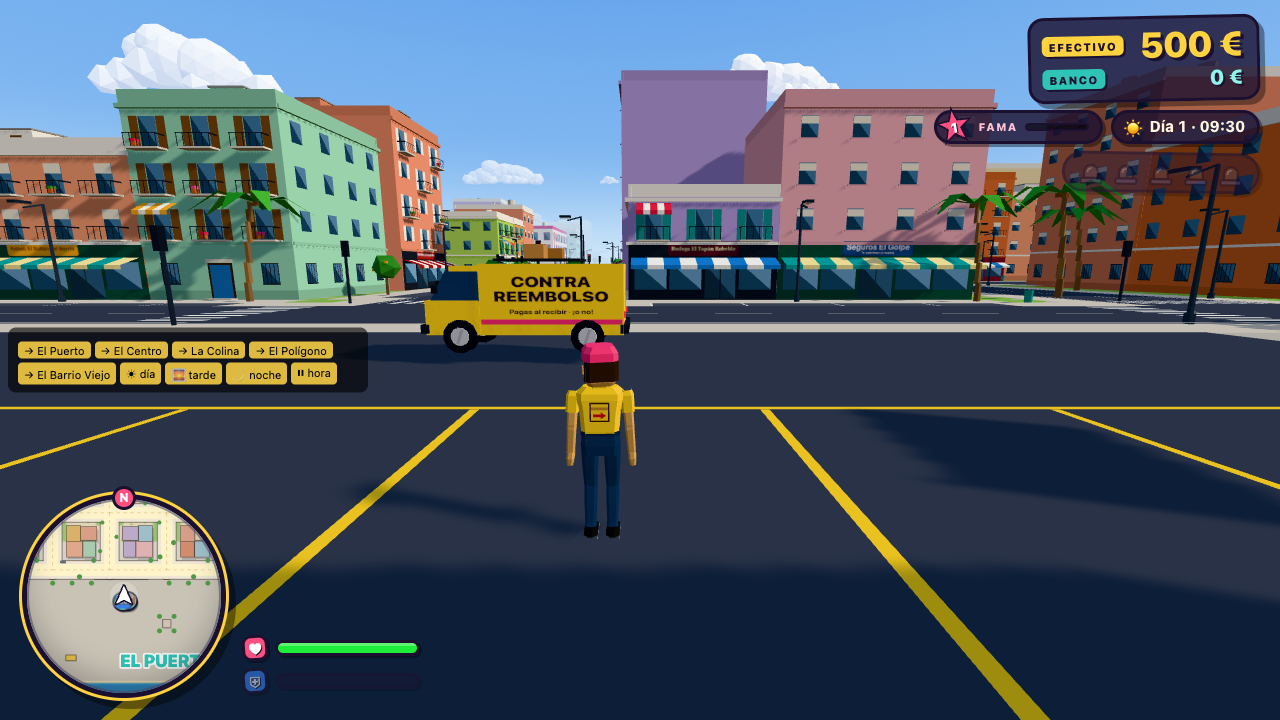
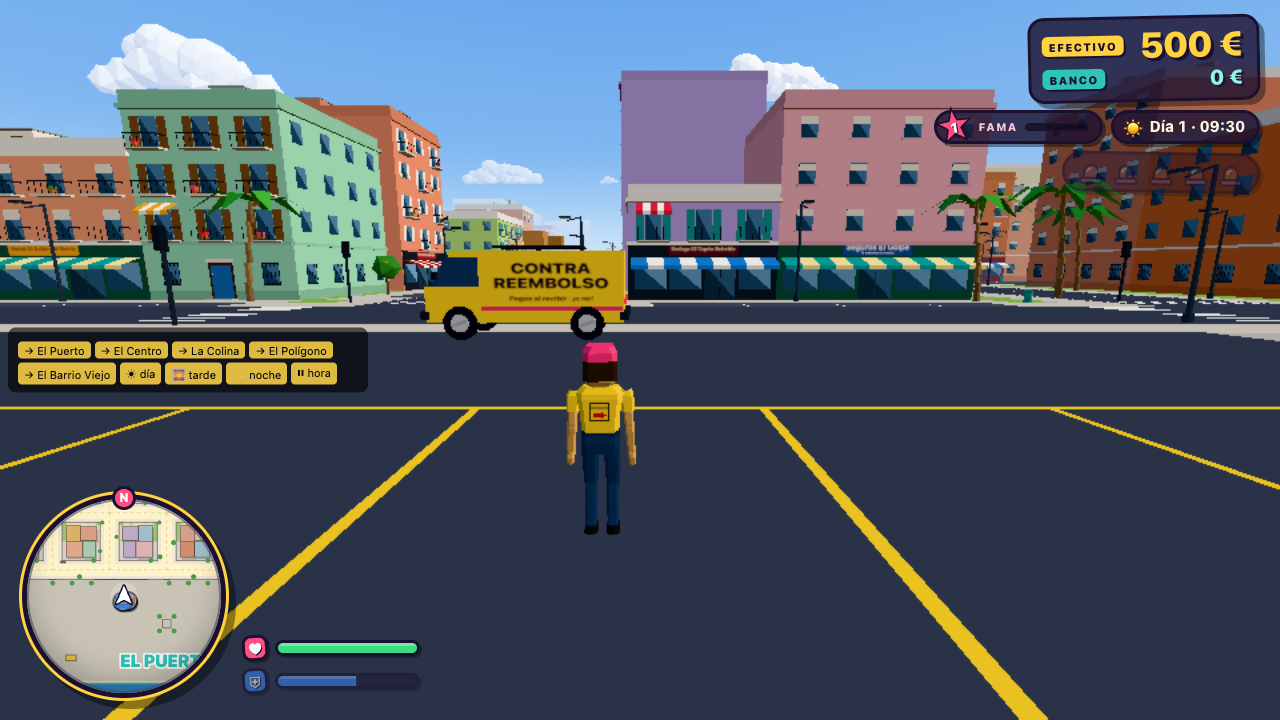
Fase 3 publicada: armas (normales, lanzapaquetes y cinta), Los Devueltos, policía con sirenas, muerte y reaparición

diff --git a/src/gameplay/weaponSpawns.ts b/src/gameplay/weaponSpawns.ts
@@ -1,0 +1,142 @@
+// Armas, botiquines y chalecos tirados por la isla (estilo videojuego de acción). Reaparecen al rato.
+import * as THREE from 'three';
+import type { Game, System } from '../core/game';
+import type { DistrictId } from '../core/contracts';
+import type { WeaponId } from '../combat/weapons';
+import { WEAPONS } from '../combat/weapons';
+import { makeGunMesh } from '../combat/gunModels';
+
+interface Spot {
+  pos: THREE.Vector3;
+  weapon?: WeaponId;
+  kind: 'weapon' | 'health' | 'armor';
+  taken: number; // tiempo en que se cogió (-1 = disponible)
+  mesh: THREE.Object3D | null;
+}
+
+const BY_DISTRICT: Record<DistrictId, WeaponId> = {
+  puerto: 'launcher',
+  centro: 'tape',
+  viejo: 'smg',
+  poligono: 'shotgun',
+  colina: 'rifle',
+};
+
+const RESPAWN = 180;
+
+export class WeaponSpawns implements System {
+  name = 'weaponSpawns';
+  private spots: Spot[] = [];
+  private ringGeo = new THREE.TorusGeometry(0.55, 0.06, 6, 20).rotateX(Math.PI / 2);
+
+  constructor(private game: Game, fase: number) {
+    const w = game.world;
+    const crazyLater: WeaponId[] = fase >= 6 ? [] : ['fragile', 'stamp'];
+    for (const d of w.districts) {
+      const spots = w.deliverySpots.filter((s) => s.district === d.id);
+      if (!spots.length) continue;
+      // un arma por barrio, en el punto de entrega más cercano al centro del barrio
+      spots.sort((a, b) => Math.hypot(a.door.x - d.center.x, a.door.z - d.center.z) - Math.hypot(b.door.x - d.center.x, b.door.z - d.center.z));
+      const weapon = BY_DISTRICT[d.id];
+      if (!crazyLater.includes(weapon)) this.add({ pos: this.offset(spots[0].door, spots[0].facing), weapon, kind: 'weapon', taken: -1, mesh: null });
+      if (spots[3]) this.add({ pos: this.offset(spots[3].door, spots[3].facing), kind: 'health', taken: -1, mesh: null });
+    }
+    const gun = w.pois.find((p) => p.kind === 'gunshop');
+    if (gun) this.add({ pos: this.offset(gun.door, gun.facing, 3), kind: 'armor', taken: -1, mesh: null });
+    const health = w.pois.find((p) => p.kind === 'health');
+    if (health) this.add({ pos: this.offset(health.door, health.facing, 3), kind: 'health', taken: -1, mesh: null });
+    // en la fase 6 aparecen el paquete FRÁGIL y la pistola de sellos
+    if (fase >= 6) {
+      const club = w.pois.find((p) => p.kind === 'junkyard');
+      const bar = w.pois.find((p) => p.kind === 'bar');
+      if (club) this.add({ pos: this.offset(club.door, club.facing, 3), weapon: 'fragile', kind: 'weapon', taken: -1, mesh: null });
+      if (bar) this.add({ pos: this.offset(bar.door, bar.facing, -3), weapon: 'stamp', kind: 'weapon', taken: -1, mesh: null });
+    }
+  }
+
+  /** Un poco apartado de la puerta, sobre la acera. */
+  private offset(door: THREE.Vector3, facing: number, side = 2.2): THREE.Vector3 {
+    const p = door.clone().add(new THREE.Vector3(Math.cos(facing) * side, 0, -Math.sin(facing) * side));
+    p.y = this.game.world.heightAt(p.x, p.z);
+    return p;
+  }
+
+  private add(s: Spot) {
+    this.spots.push(s);
+    this.show(s);
+  }
+
+  private show(s: Spot) {
+    const g = new THREE.Group();
+    if (s.kind === 'weapon' && s.weapon) {
+      const m = makeGunMesh(s.weapon);
+      if (m) {
+        m.scale.setScalar(1.8);
+        m.rotation.y = Math.PI / 2;
+        g.add(m);
+      }
+    } else {
+      const c = s.kind === 'health' ? '#ffffff' : '#1d3557';
+      const box = new THREE.Mesh(new THREE.BoxGeometry(0.45, 0.35, 0.25), new THREE.MeshLambertMaterial({ color: c }));
+      g.add(box);
+      if (s.kind === 'health') {
+        const cross = new THREE.Mesh(new THREE.BoxGeometry(0.3, 0.08, 0.26), new THREE.MeshBasicMaterial({ color: '#e63946' }));
+        const cross2 = new THREE.Mesh(new THREE.BoxGeometry(0.08, 0.26, 0.26), new THREE.MeshBasicMaterial({ color: '#e63946' }));
+        g.add(cross, cross2);
+      }
+    }
+    const ring = new THREE.Mesh(this.ringGeo, new THREE.MeshBasicMaterial({ color: s.kind === 'weapon' ? '#ffd23f' : s.kind === 'health' ? '#06d6a0' : '#2ec4ff', toneMapped: false }));
+    ring.position.y = -0.55;
+    g.add(ring);
+    g.position.copy(s.pos).setY(s.pos.y + 0.8);
+    this.game.scene.add(g);
+    s.mesh = g;
+  }
+
+  update(dt: number) {
+    const g = this.game;
+    const p = g.mod.player;
+    if (!p) return;
+    const t = g.time.elapsed;
+    for (const s of this.spots) {
+      if (s.taken >= 0) {
+        if (t - s.taken > RESPAWN && p.position.distanceTo(s.pos) > 40) {
+          s.taken = -1;
+          this.show(s);
+        }
+        continue;
+      }
+      if (s.mesh) {
+        s.mesh.rotation.y += dt * 1.5;
+        s.mesh.position.y = s.pos.y + 0.8 + Math.sin(t * 2.5) * 0.12;
+      }
+      if (p.state !== 'foot' || p.position.distanceTo(s.pos) > 1.4) continue;
+      // recoger
+      const combat = g.mod.combat;
+      if (s.kind === 'weapon' && s.weapon && combat) {
+        const had = combat.owned.has(s.weapon);
+        combat.give(s.weapon);
+        g.events.emit('toast', { text: had ? `+ munición de ${WEAPONS[s.weapon].name}` : `¡${WEAPONS[s.weapon].icon} ${WEAPONS[s.weapon].name}! (tecla ${WEAPONS[s.weapon].slot})`, color: '#ffd23f', time: 2.2 });
+        g.mod.audio?.play('reload');
+      } else if (s.kind === 'health') {
+        if (p.health >= p.maxHealth) continue;
+        p.heal(50);
+        g.events.emit('toast', { text: '+50 de vida', color: '#06d6a0', time: 1.3 });
+        g.mod.audio?.play('pickup');
+      } else if (s.kind === 'armor') {
+        if (p.armor >= 100) continue;
+        p.armor = 100;
+        g.events.emit('toast', { text: 'Chaleco al 100 %', color: '#2ec4ff', time: 1.3 });
+        g.mod.audio?.play('pickup');
+      }
+      s.taken = t;
+      if (s.mesh) g.scene.remove(s.mesh);
+      s.mesh = null;
+    }
+  }
+
+  /** Marcadores para el mapa grande (armas disponibles). */
+  markers() {
+    return this.spots.filter((s) => s.taken < 0 && s.kind === 'weapon').map((s) => ({ x: s.pos.x, z: s.pos.z, icon: WEAPONS[s.weapon!].icon }));
+  }
+}

diff --git a/src/ai/combatant.ts b/src/ai/combatant.ts
@@ -181,12 +181,12 @@ function tryShoot(game: Game, npc: Npc, b: CombatBrain, target: THREE.Vector3, d
     b.burst = def.auto ? 3 + Math.floor(rnd.next() * 3) : 1 + Math.floor(rnd.next() * 2);
   }
   b.burst--;
-  b.fireTimer = b.burst > 0 ? baseDelay : 1.1 + rnd.next() * 1.2;
+  b.fireTimer = b.burst > 0 ? baseDelay : 1.5 + rnd.next() * 1.6;
   const muzzle = npc.rig.handWorldPosition(new THREE.Vector3());
   // dispersión: cuanto más lejos y si vas en coche rápido, más fallan
   const v = game.mod.vehicles?.current;
   const moving = v ? Math.min(2, Math.abs(v.speed) / 12) : 0;
-  const spreadMul = 2.2 + dist / 7 + moving * 2;
+  const spreadMul = 3 + dist / 6 + moving * 2;
   // disparan a un punto algo desviado, no al centro exacto
   const aim = target.clone();
   aim.x += (rnd.next() - 0.5) * 0.8;
@@ -194,7 +194,7 @@ function tryShoot(game: Game, npc: Npc, b: CombatBrain, target: THREE.Vector3, d
   aim.z += (rnd.next() - 0.5) * 0.8;
   npc.shotPulse = true;
   // daño reducido para NPCs (justo)
-  const npcDef = { ...def, damage: def.damage * (b.side === 'police' ? 0.45 : 0.4) };
+  const npcDef = { ...def, damage: def.damage * (b.side === 'police' ? 0.35 : 0.3) };
   combat.fire({ kind: 'npc', npc, exclude: npc.collider }, npcDef, muzzle, aim, spreadMul);
 }
 

diff --git a/src/actors/player.ts b/src/actors/player.ts
@@ -48,6 +48,8 @@ export class Player implements System {
   readonly push = new THREE.Vector3();
   /** Va sentado en un vehículo (el muñeco es hijo del vehículo). */
   seated = false;
+  /** Última vez que recibió daño (la vida se recupera sola hasta 60 si pasa un rato). */
+  lastHurt = -99;
 
   readonly root = new THREE.Group();
   rig: CharacterRig | null = null;
@@ -142,6 +144,7 @@ export class Player implements System {
     const g = this.game;
     const input = g.input;
     const cam = g.mod.cameraRig as CameraRig | undefined;
+    if (this.state !== 'dead' && this.health < 60 && g.time.elapsed - this.lastHurt > 8) this.health = Math.min(60, this.health + dt * 2.5);
     if (this.state !== 'foot') {
       this.syncVisual(dt);
       return;
@@ -293,6 +296,7 @@ export class Player implements System {
       a -= absorbed;
     }
     this.health = Math.max(0, this.health - a);
+    this.lastHurt = this.game.time.elapsed;
     this.game.events.emit('player:hurt', { amount, source });
     if (this.health <= 0) {
       this.state = 'dead';

diff --git a/src/setup.ts b/src/setup.ts
@@ -33,6 +33,7 @@ import { RandomEvents } from './gameplay/randomEvents';
 import { PhotoMode } from './ui/photoMode';
 import { Achievements } from './gameplay/achievements';
 import { Daily } from './gameplay/daily';
+import { WeaponSpawns } from './gameplay/weaponSpawns';
 import { ShopUI } from './ui/shop';
 import { Shops } from './gameplay/shops';
 import { Company } from './gameplay/company';
@@ -75,7 +76,11 @@ export function setupSystems(game: Game, fase: number, look: CharacterLook = def
     add(new Pedestrians(game));
   }
   if (fase >= 3) {
-    add(new Combat(game));
+    const combat = add(new Combat(game));
+    // el jefe te da una pistola "por si acaso"
+    combat.give('pistol', 36);
+    combat.select('fists');
+    add(new WeaponSpawns(game, fase));
     add(new Police(game));
     add(new Gang(game));
     add(new Respawn(game));

diff --git a/tests/juego.spec.ts b/tests/juego.spec.ts
@@ -102,10 +102,10 @@ test('disparar', async ({ page }) => {
   await page.mouse.down();
   await page.waitForTimeout(80);
   await page.mouse.up();
-  await page.waitForTimeout(400);
+  // con SwiftShader va a pocos fps: se espera a que salga la bala (máx. 15 s)
+  await page.waitForFunction(() => (window as any).__cr.mod.combat.ammo.pistol.clip < 12, null, { timeout: 15_000 });
   await page.screenshot({ path: `${DIR}/05-apuntando.png` });
   await page.mouse.up({ button: 'right' });
-  expect((await g(page, `__cr.mod.combat.ammo.pistol.clip`)) as number).toBeLessThan(12);
   // tiroteo con la banda
   await g(page, `__cr.mod.gang.ambush(__cr.mod.player.position.clone().add(new THREE.Vector3(0,0,-16)), 3)`);
   await page.waitForTimeout(3500);

diff --git a/src/ui/combatHud.ts b/src/ui/combatHud.ts
@@ -4,6 +4,7 @@ import type { Game, System } from '../core/game';
 import { WEAPONS, type WeaponId } from '../combat/weapons';
 
 const CSS = `
+.cr-rueda,.cr-impacto,.cr-arresto{pointer-events:none !important}
 .cr-rueda{position:fixed;left:50%;bottom:200px;transform:translateX(-50%);display:flex;gap:8px;z-index:20;pointer-events:none;transition:opacity .2s}
 .cr-rueda div{min-width:64px;padding:8px 10px 6px;border-radius:14px;background:rgba(27,16,48,.82);border:3px solid rgba(255,255,255,.15);text-align:center;color:#fff;font:800 11px system-ui}
 .cr-rueda div i{display:block;font-style:normal;font-size:26px;line-height:1.1}

diff --git a/src/main.ts b/src/main.ts
@@ -15,7 +15,7 @@ import { registerSaveSections } from './gameplay/saveSections';
 import type { WorldData } from './core/contracts';
 
 /** Fase publicada: los sistemas de fases posteriores no se activan todavía. */
-export const FASE = 2;
+export const FASE = 3;
 
 async function boot() {
   const loading = new LoadingScreen();

diff --git a/PROGRESO.md b/PROGRESO.md
@@ -4,7 +4,15 @@ Enlace: https://agarroda-bit.github.io/contra-reembolso/
 
 Si pierdes el contexto: relee `ENCARGO.md`, este archivo y `DECISIONES.md`, y sigue.
 
-## Fase actual: 3 — Armas y enemigos (integrando)
+## Fase actual: 4 — Encargos y dinero (integrando)
+
+## Fase 3 — Armas y enemigos ✅ (26/09, 07:00, publicada)
+- Armas normales: pistola (empiezas con ella), escopeta, subfusil y fusil; locas: lanzapaquetes (cajas que rebotan y tumban) y pistola de cinta de embalar (deja pegados al suelo). Hay una tirada en cada barrio, más botiquines y un chaleco; reaparecen a los 3 min.
+- Apuntado al hombro con retícula (clic derecho), retroceso, fogonazo, trazadoras, casquillos, chispas; rueda de armas (1-5 y rueda del ratón); marca de impacto; disparo desde el vehículo hacia los lados y atrás.
+- Los Devueltos: guardias en su guarida del Polígono, emboscadas, persecuciones en furgoneta morada (embisten, disparan por la ventanilla, te sacan del vehículo). IA justa: avisan antes del primer tiro, se cubren, flanquean y fallan más de lejos. Al caer: nube de cartón y confeti, y a veces sueltan dinero o munición.
+- Policía con 1-5 sirenas: sube por robar coches delante de ellos, disparar, atropellar o agredir; coches patrulla que te persiguen por las calles, furgones y controles desde 3 sirenas; con 1-2 sirenas intentan detenerte (barra de arresto); se pierde escapando un rato o en el taller de pintura.
+- Muerte («¡TE HAN DEVUELTO!») y arresto («¡TE HAN PILLADO!») con pérdida del efectivo; reapareces en el centro de salud o la oficina. Caer al mar: te saca un pescador. La vida se recupera sola hasta 60.
+- Pruebas: + disparar y tiroteo (`capturas/fase-3/`). 19 fallos encontrados por un revisor, arreglados.
 
 ## Fase 2 — Vehículos ✅ (26/09, 06:40, publicada)
 - Furgoneta de reparto (6 paquetes), scooter (2) y coches de calle: utilitario, taxi, deportivo, todoterreno y furgón. Física de Rapier con ruedas por rayos y ayudas arcade (turbo con Shift, freno de mano con Espacio, se enderezan solos).
